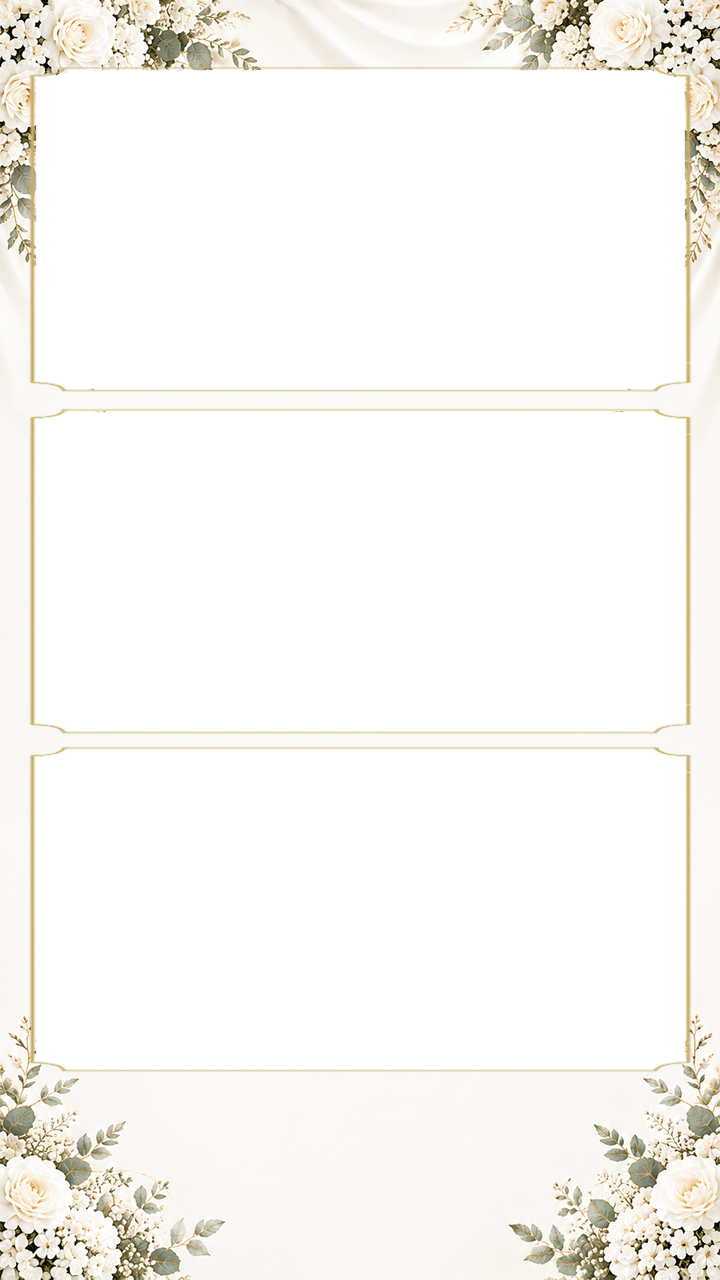
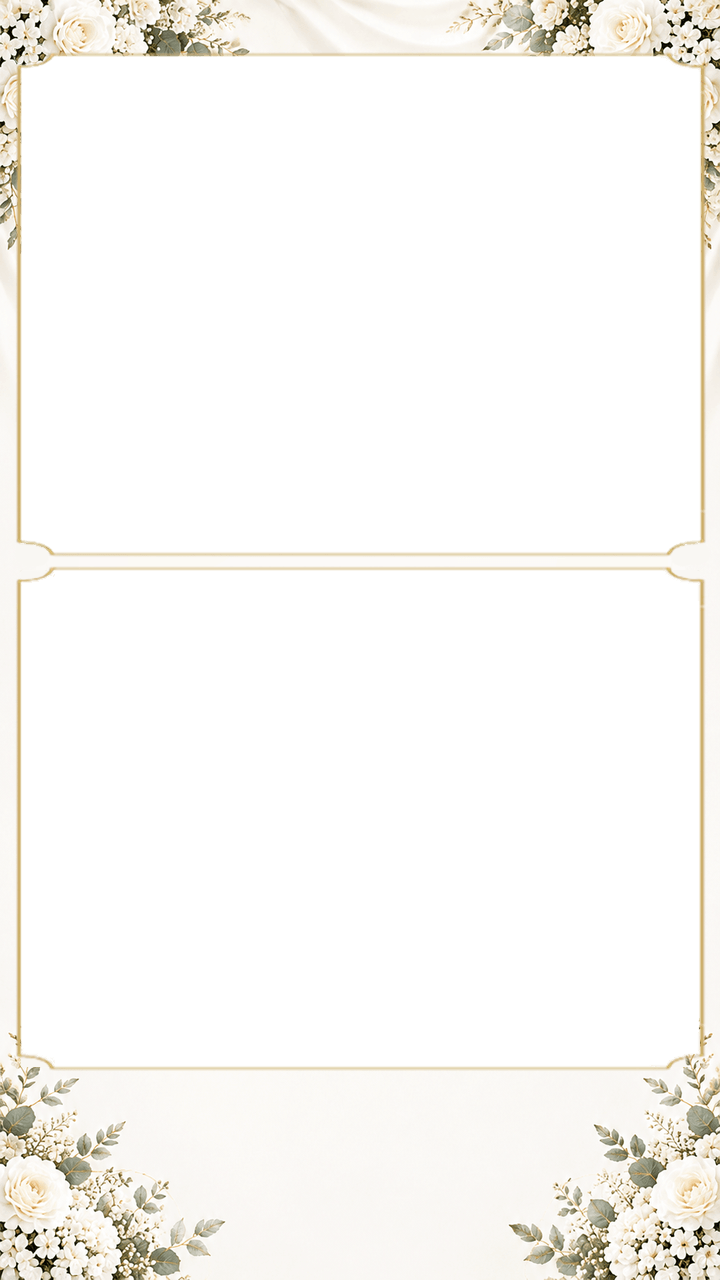
change 2 frame mode
change 2 frame mode

Changed region(s): [[0.0, 0.0312, 0.9778, 0.8438]]

diff --git a/src/Pages/GuestPhotobooth.tsx b/src/Pages/GuestPhotobooth.tsx
@@ -11,7 +11,7 @@ import { toJpeg } from "html-to-image";
 
 
 type Filter = "Original" | "Warm" | "Soft" | "B&W";
-type FrameMode = "none" | "single" | "triple";
+type FrameMode = "none" | "single" | "double";
 
 const FILTERS: Record<Filter, string> = {
   Original: "none",
@@ -28,9 +28,9 @@ const FILTERS: Record<Filter, string> = {
 // const hasAnyFrame = hasWeddingFrame || hasSingleFrame;
 
 const PHOTO_SLOTS = [
-  { x: 53, y: 107, width: 976, height: 476 },
-  { x: 53, y: 618, width: 976, height: 476 },
-  { x: 53, y: 1128, width: 976, height: 476 },
+  { x: 29, y: 83, width: 1022, height: 746 },
+  { x: 29, y: 854, width: 1022, height: 746 },
+ 
 ] as const;
 const SINGLE_SLOT = { x: 130, y: 198, width: 810, height: 1342 } as const;
 
@@ -112,7 +112,7 @@ export default function GuestPhotobooth() {
 
   const [nama, setNama] = useState("");
   const [ucapan, setUcapan] = useState("");
-  const [photos, setPhotos] = useState<string[]>(["", "", ""]);
+  const [photos, setPhotos] = useState<string[]>(["", ""]);
   const [activeShot, setActiveShot] = useState(0);
   const [filter, setFilter] = useState<Filter>("Original");
 
@@ -148,7 +148,7 @@ export default function GuestPhotobooth() {
 
   // Mode awal mengikuti frame yang tersedia.
   const [frameMode, setFrameMode] = useState<FrameMode>(
-    hasWeddingFrame ? "triple" : hasSingleFrame ? "single" : "none"
+    hasWeddingFrame ? "double" : hasSingleFrame ? "single" : "none"
   );
 
   // Pastikan mode yang dipilih memang memiliki frame.
@@ -156,15 +156,15 @@ export default function GuestPhotobooth() {
     ? "none"
     : frameMode === "single" && hasSingleFrame
       ? "single"
-      : frameMode === "triple" && hasWeddingFrame
-        ? "triple"
+      : frameMode === "double" && hasWeddingFrame
+        ? "double"
         : hasSingleFrame
           ? "single"
-          : "triple";
+          : "double";
 
   // Mode foto selalu mengikuti pilihan frame.
-  const photoMode: 1 | 3 =
-    effectiveFrameMode === "triple" ? 3 : 1;
+  const photoMode: 1 | 2 =
+    effectiveFrameMode === "double" ? 2 : 1;
 
   function showNotice(message: string, error = false) {
     setNotice(message);
@@ -357,8 +357,8 @@ export default function GuestPhotobooth() {
         return;
       }
 
-      // Mode tiga foto: lanjut ke slot berikutnya.
-      if (shot < 2) {
+      // Mode dua foto: lanjut ke slot berikutnya.
+      if (shot < 1) {
         setActiveShot(shot + 1);
         showNotice(
           `Foto ${shot + 1} berhasil diambil! Lanjutkan ke foto ${shot + 2}.`
@@ -366,7 +366,7 @@ export default function GuestPhotobooth() {
       } else {
         closeCamera();
         showNotice(
-          "Tiga foto berhasil diambil! Kamu bisa meninjau hasilnya."
+          "Dua foto berhasil diambil! Kamu bisa meninjau hasilnya."
         );
       }
     } catch (error) {
@@ -533,7 +533,7 @@ export default function GuestPhotobooth() {
 
       setFilter("Original");
 
-      if (photoMode === 3 && shot < 2) {
+      if (photoMode === 2 && shot < 1) {
         setActiveShot(shot + 1);
       }
 
@@ -541,7 +541,7 @@ export default function GuestPhotobooth() {
         photoMode === 1
           ? "Foto berhasil dipilih! Kamu bisa meninjau hasilnya."
           : `Foto ${shot + 1} berhasil dipilih${
-              shot < 2 ? `. Lanjutkan ke foto ${shot + 2}.` : "."
+              shot < 1 ? `. Lanjutkan ke foto ${shot + 2}.` : "."
             }`
       );
     } catch {
@@ -711,7 +711,7 @@ export default function GuestPhotobooth() {
       throw new Error(
         photoMode === 1
           ? "Ambil atau pilih satu foto terlebih dahulu."
-          : "Ambil atau pilih ketiga foto terlebih dahulu."
+          : "Ambil atau pilih kedua foto terlebih dahulu."
       );
     }
 
@@ -780,7 +780,7 @@ export default function GuestPhotobooth() {
       showNotice(
         photoMode === 1
           ? "Ambil atau pilih satu foto terlebih dahulu."
-          : "Ambil atau pilih ketiga foto terlebih dahulu.",
+          : "Ambil atau pilih kedua foto terlebih dahulu.",
         true
       );
       return;
@@ -836,14 +836,14 @@ export default function GuestPhotobooth() {
   }
 
   function resetPhotos() {
-    setPhotos(["", "", ""]);
+    setPhotos(["", ""]);
     setActiveShot(0);
     setCameraError("");
 
     showNotice(
       photoMode === 1
         ? "Foto dikosongkan. Silakan ambil atau pilih foto kembali."
-        : "Ketiga kotak foto dikosongkan. Mulai dari foto pertama."
+        : "kedua kotak foto dikosongkan. Mulai dari foto pertama."
     );
   }
 
@@ -945,7 +945,7 @@ export default function GuestPhotobooth() {
                   >
                     {photoMode === 1
                       ? "Jepret Foto"
-                      : `Jepret Foto ${activeShot + 1}/3`}
+                      : `Jepret Foto ${activeShot + 1}/2`}
                   </button>
 
                   <button

diff --git a/src/Components/Component/PhotoboothSection.tsx b/src/Components/Component/PhotoboothSection.tsx
@@ -1,7 +1,7 @@
 import { type RefObject } from "react";
 import { Photobooths } from "../../Data/Photobooth";
 
-export type FrameMode = "none" | "single" | "triple";
+export type FrameMode = "none" | "single" | "double";
 
 interface PhotoSlot {
   x: number;
@@ -87,15 +87,15 @@ export default function PhotoboothSection({
     ? "none"
     : frameMode === "single" && hasSingleFrame
       ? "single"
-      : frameMode === "triple" && hasWeddingFrame
-        ? "triple"
+      : frameMode === "double" && hasWeddingFrame
+        ? "double"
         : hasSingleFrame
           ? "single"
-          : "triple";
+          : "double";
 
-  const isTriple = effectiveMode === "triple";
+  const isdouble = effectiveMode === "double";
   const isSingle = effectiveMode === "single";
-  const currentPhotoIndex = isTriple ? activeShot : 0;
+  const currentPhotoIndex = isdouble ? activeShot : 0;
   const currentPhoto = photos[currentPhotoIndex] || "";
   
   const selectedPhotobooth = Photobooths.find(
@@ -150,17 +150,17 @@ export default function PhotoboothSection({
           <button
             type="button"
             onClick={() => {
-              setFrameMode("triple");
+              setFrameMode("double");
               setActiveShot(0);
             }}
             disabled={busy || cameraOpen}
             className={`rounded-xl border px-4 py-3 text-sm transition ${
-              effectiveMode === "triple"
+              effectiveMode === "double"
                 ? "border-[#39362f] bg-[#39362f] text-white"
                 : "border-[#d9d2c5] bg-white text-[#625e53] hover:bg-[#f9f7f2]"
             } disabled:opacity-50`}
           >
-            3 Foto
+            2 Foto
           </button>
         </div>
       )}
@@ -308,7 +308,7 @@ export default function PhotoboothSection({
         )}
 
         {/* Mode tiga foto */}
-        {effectiveMode === "triple" && (
+        {effectiveMode === "double" && (
           <>
             {photoSlots.map((slot, index) => {
               const isActive = activeShot === index;
@@ -415,8 +415,8 @@ export default function PhotoboothSection({
      
 
       <p className="mt-3 text-center text-xs text-[#8b887c]">
-        {isTriple
-          ? `Foto ${activeShot + 1} dari 3`
+        {isdouble
+          ? `Foto ${activeShot + 1} dari 2`
           : isSingle
             ? "Mode satu foto"
             : "Mode satu foto tanpa frame"}

diff --git a/src/Components/Component/PhotoboothFormSection.tsx b/src/Components/Component/PhotoboothFormSection.tsx
@@ -15,7 +15,7 @@ interface PhotoboothFormSectionProps {
   recording: boolean;
   cameraOpen: boolean;
   photos: string[];
-  photoMode: 1 | 3;
+  photoMode: 1 | 2;
   downloadPhoto: () => void | Promise<void>;
   submit: () => void | Promise<void>;
   children?: React.ReactNode;
